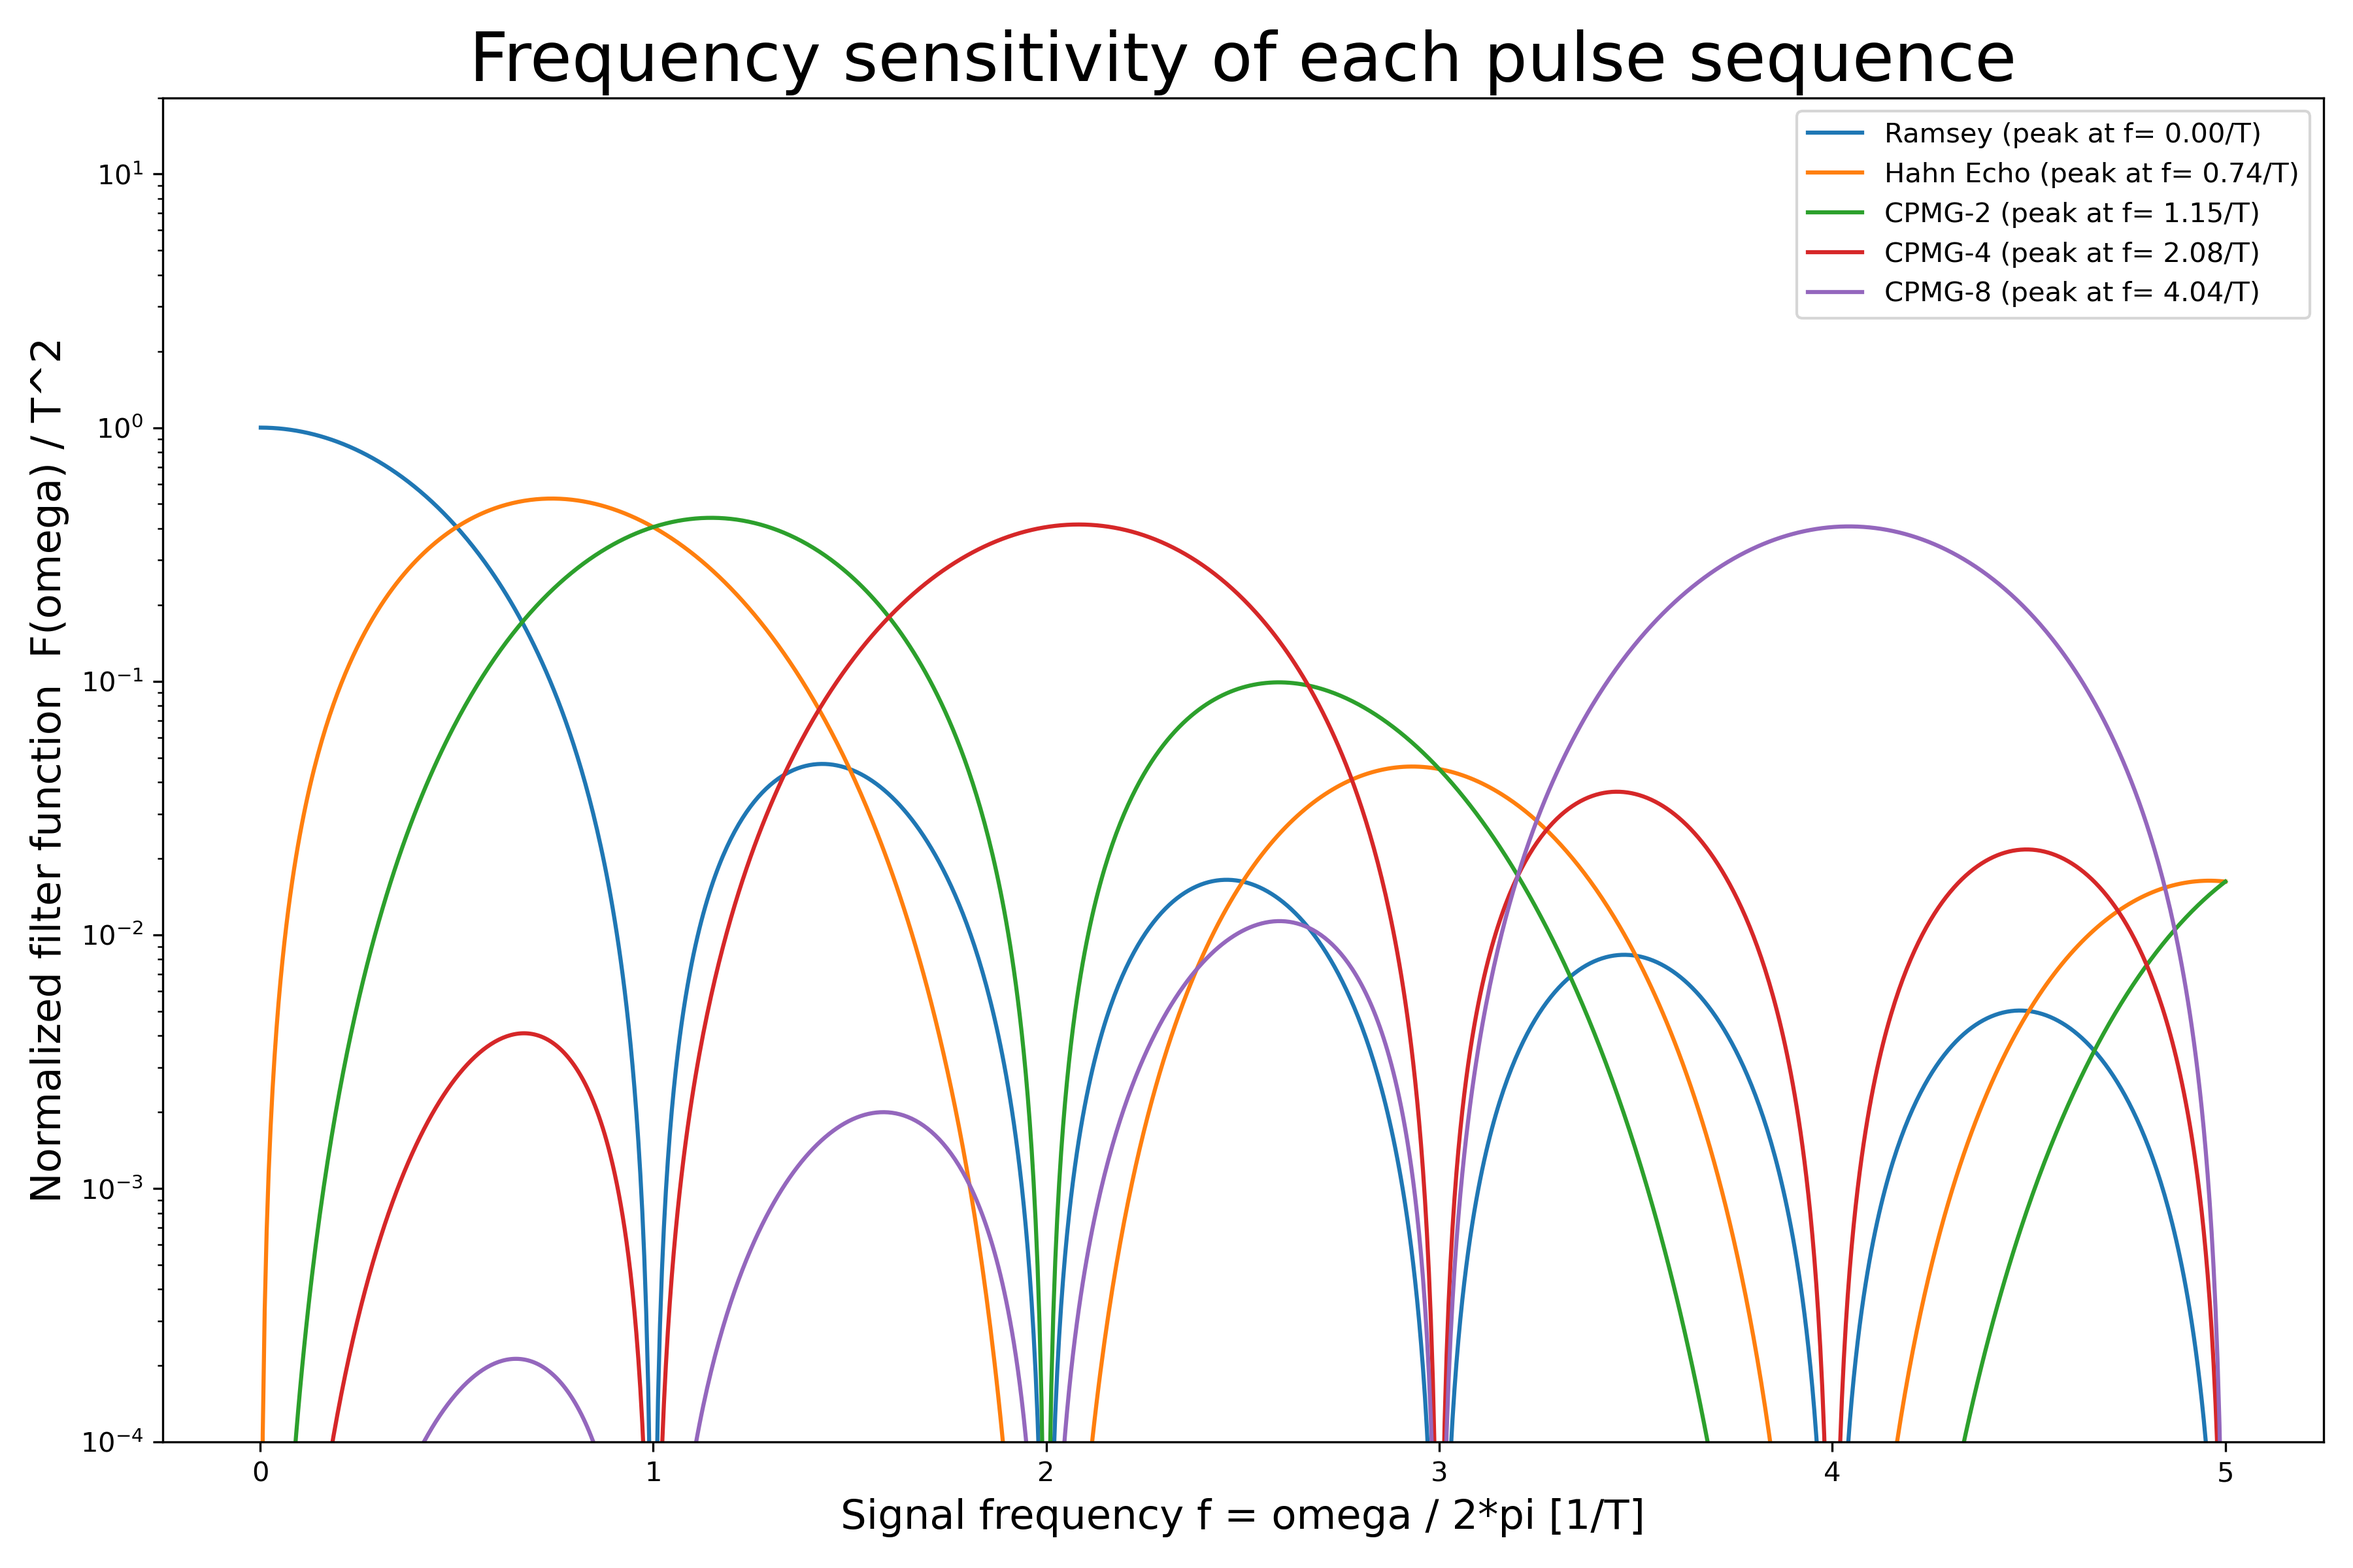
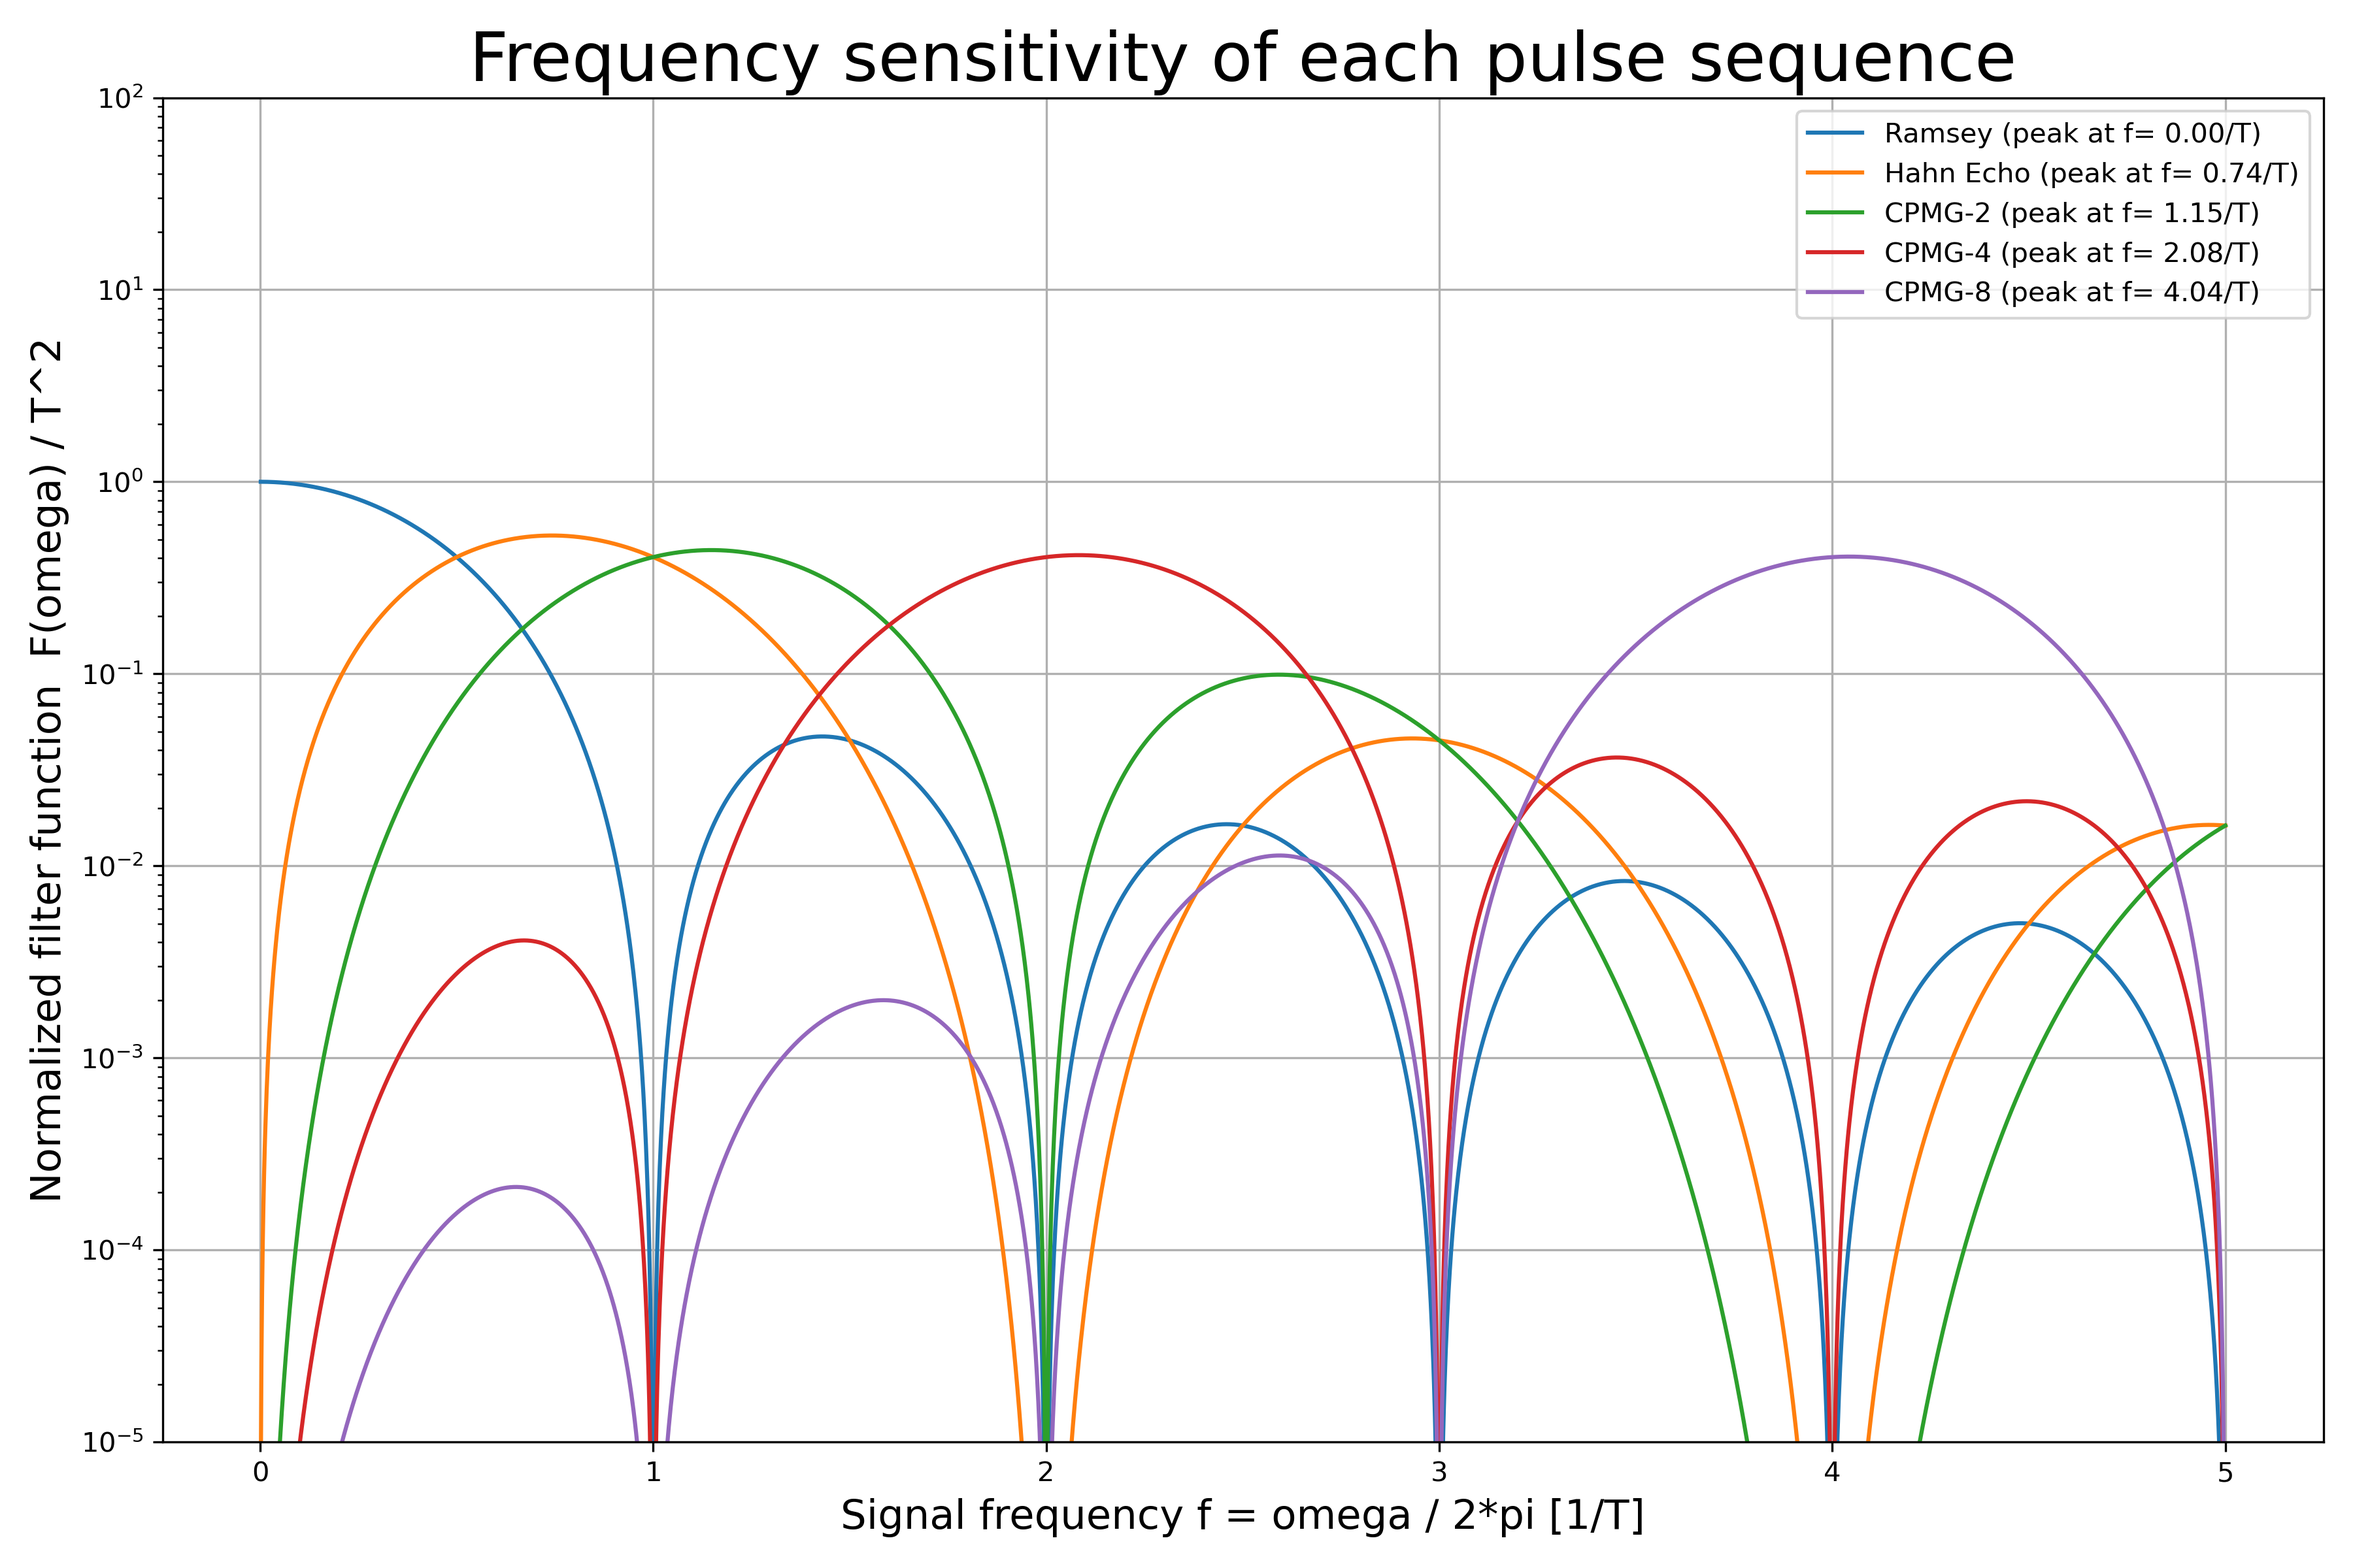
modifying src dir, change values in filter.py and improve graph

diff --git a/src/filter.py b/src/filter.py
@@ -23,7 +23,7 @@ def normalized_filter(omega, T, n_pulses, n_points=20000):
 
 if __name__ == "__main__":
     T = 1.0
-    omega = np.linspace(0.01, 10*np.pi, 1000)
+    omega = np.linspace(0.01, 10*np.pi, 3000)
 
     fig, ax = plt.subplots(figsize=(12, 8))
 
@@ -37,8 +37,9 @@ if __name__ == "__main__":
     ax.set_ylabel("Normalized filter function  F(omega) / T^2", fontsize=15)
     ax.set_title("Frequency sensitivity of each pulse sequence", fontsize=25)
     ax.legend(fontsize=10)
+    ax.grid(True)
     ax.set_yscale("log")
-    ax.set_ylim(1e-4, 20)
+    ax.set_ylim(1e-5, 100)
     fig.tight_layout()
     fig.savefig(
         "/Users/farkasbende/Desktop/UCPH_Master/SCQIS/project_magnetometry/results/filter_func.png", dpi=300)
